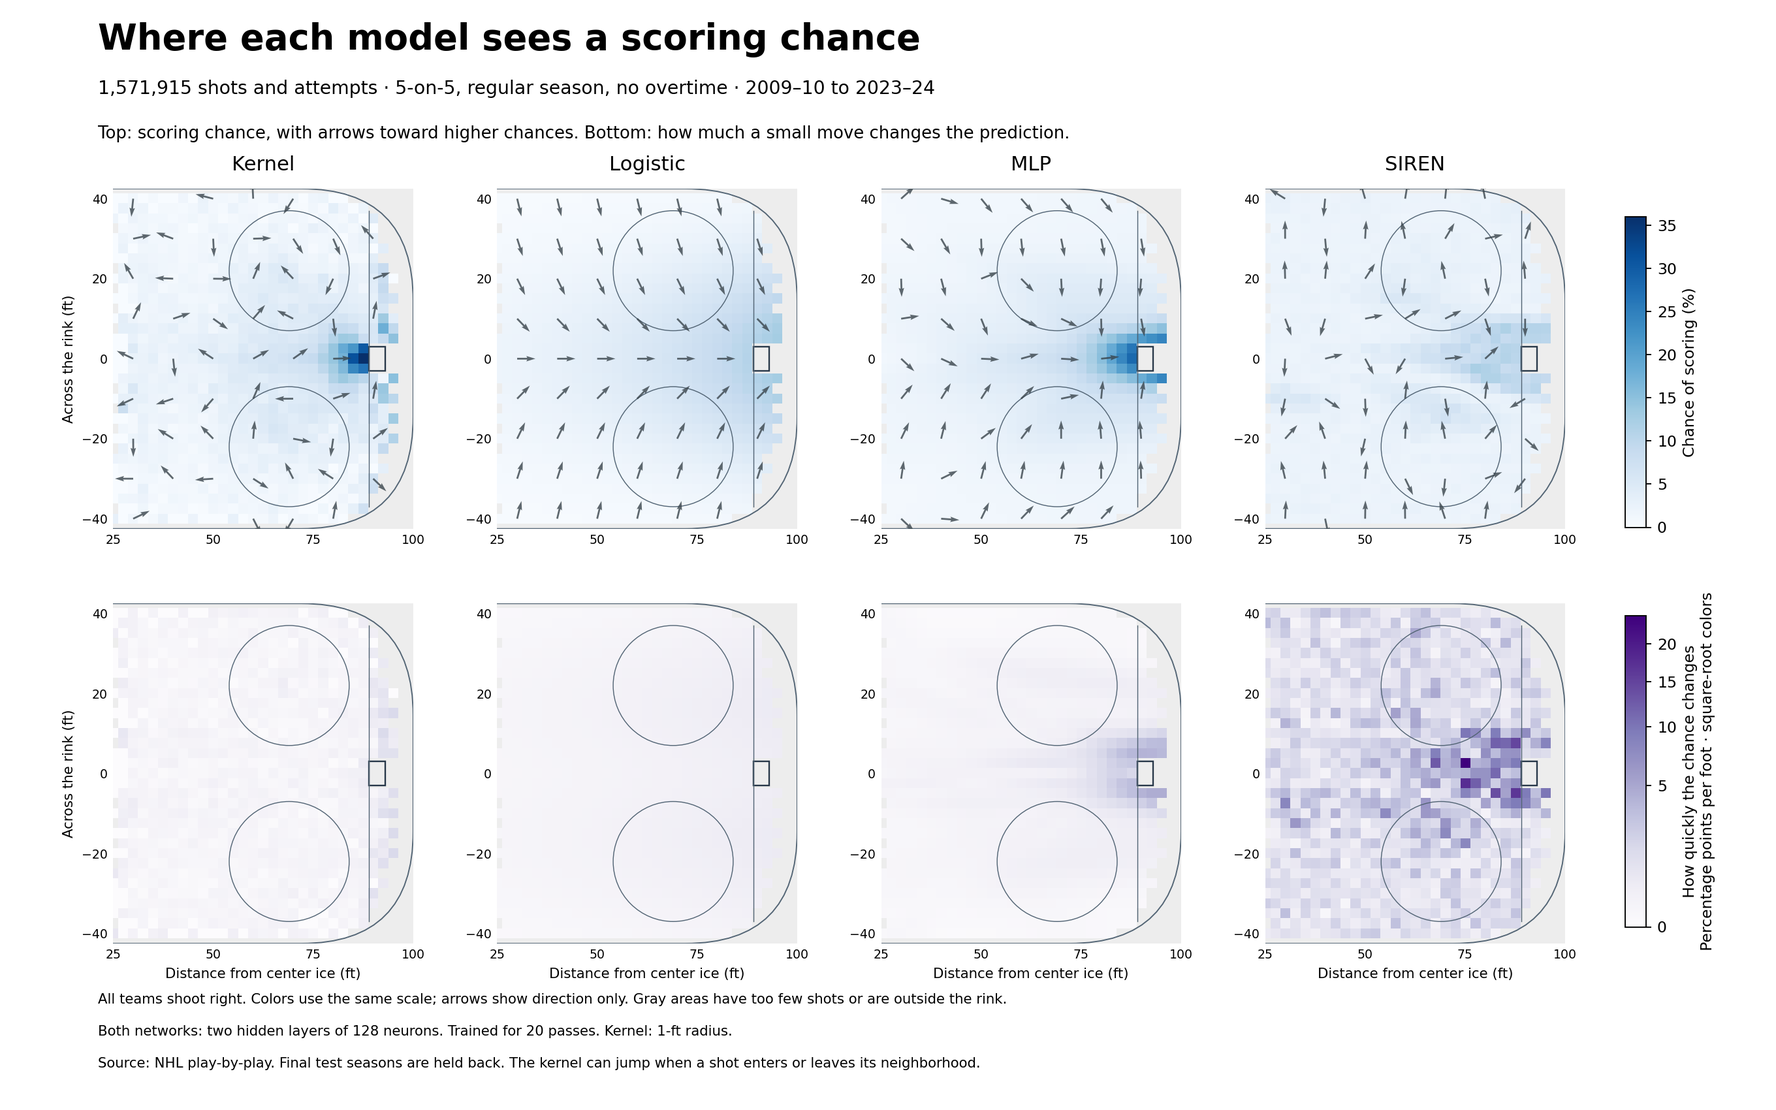
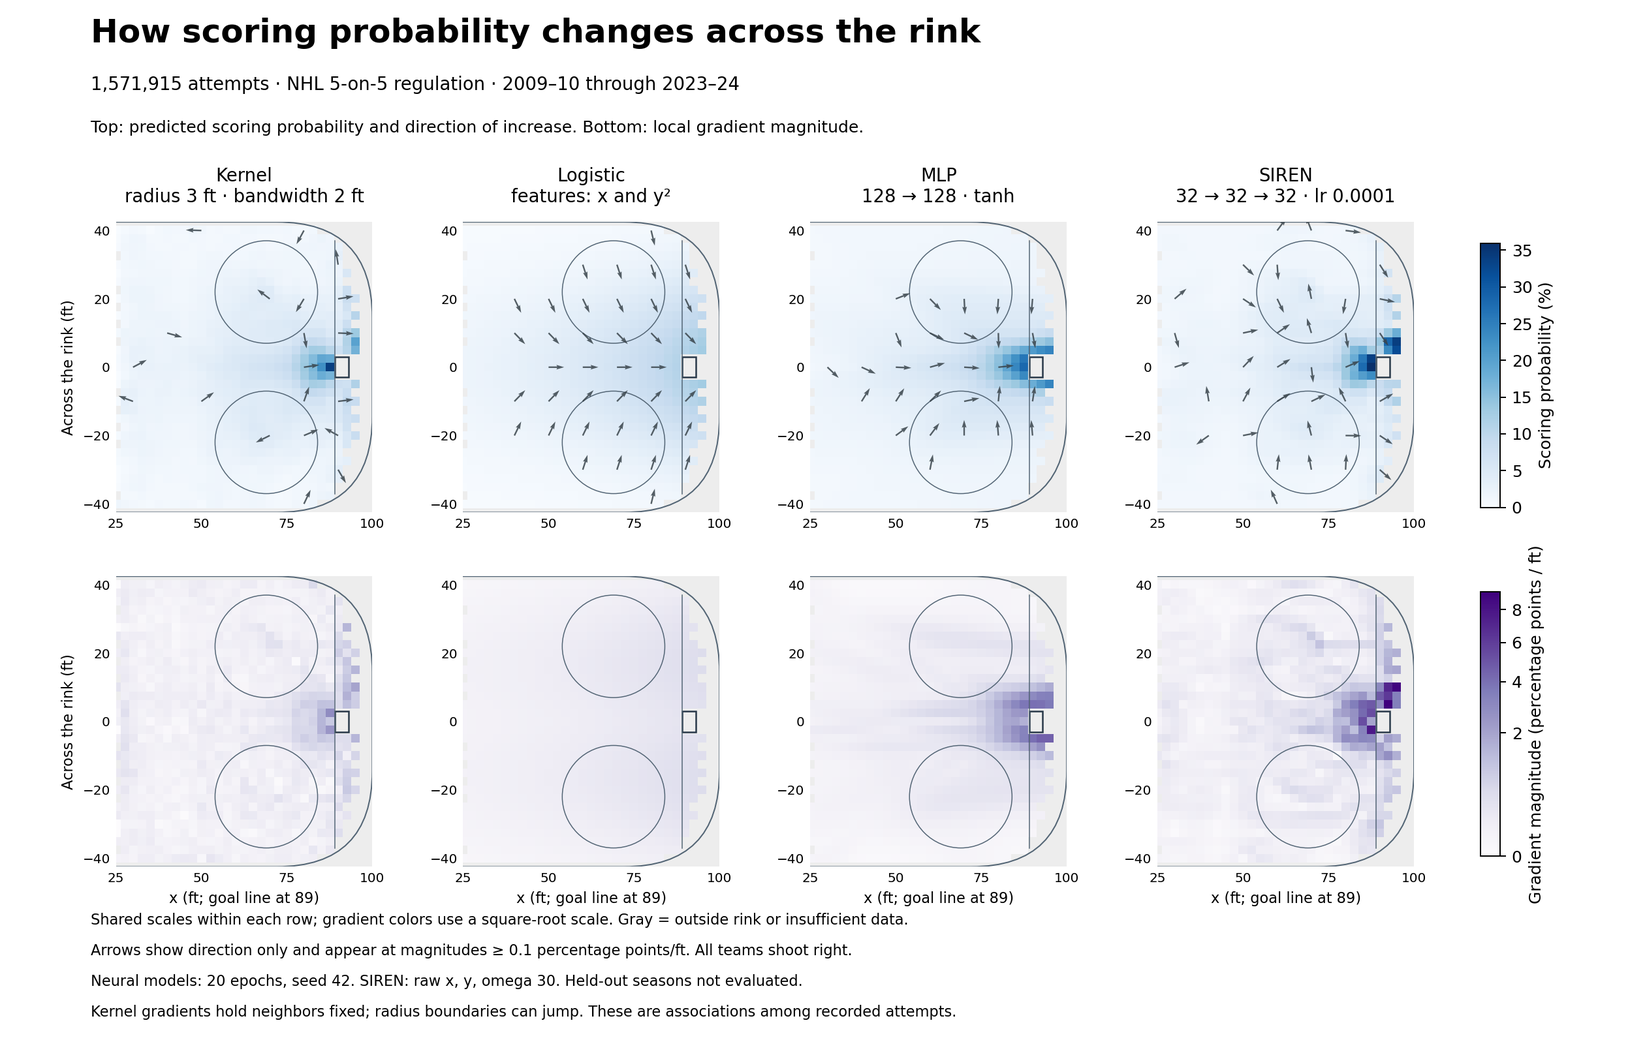
modification of Kernel radius and SIREN hyperparameters

diff --git a/xG/compare_geometry.py b/xG/compare_geometry.py
@@ -4,6 +4,7 @@ Run: python compare_geometry.py
 Uses seasons through 2023–24; final test seasons are not evaluated.
 """
 import argparse
+from copy import deepcopy
 import json
 from itertools import combinations
 from pathlib import Path
@@ -24,6 +25,29 @@ from mlp import MLP2D
 from siren import SIREN2D
 
 
+def gradient_check(model):
+    """Use double precision and a fine step to resolve rapid sine oscillations."""
+    q = np.array([71.3, 7.2])
+    eps = 1e-7 if isinstance(model, torch.nn.Module) else .001
+    if isinstance(model, torch.nn.Module):
+        checked = deepcopy(model).double().eval()
+        point = torch.tensor(q, dtype=torch.float64, requires_grad=True)
+        derivative, = torch.autograd.grad(torch.sigmoid(checked(point)), point)
+        analytic = derivative.detach().numpy()
+        def predict(coords):
+            with torch.no_grad():
+                return torch.sigmoid(checked(torch.tensor(coords, dtype=torch.float64))).numpy()
+    else:
+        analytic = model.gradient(q)
+        predict = model.predict_proba
+    numeric = np.array([(predict(np.array([q + eps*a]))[0]
+                         - predict(np.array([q - eps*a]))[0]) / (2*eps)
+                        for a in np.eye(2)])
+    return {"point": q.tolist(), "step_ft": eps,
+            "analytic": analytic.tolist(), "numeric": numeric.tolist(),
+            "max_absolute_error": float(np.abs(analytic - numeric).max())}
+
+
 def rink(ax):
     ax.add_patch(FancyBboxPatch(
         (-100, -42.5), 200, 85, boxstyle="round,pad=0,rounding_size=28",
@@ -39,12 +63,73 @@ def rink(ax):
     ax.set_facecolor("#ededed")
 
 
+def render(folder, destination=None):
+    folder = Path(folder)
+    destination = Path(destination) if destination else folder
+    destination.mkdir(parents=True, exist_ok=True)
+    report = json.loads((folder / 'comparison.json').read_text())
+    settings = report['settings']
+    names = ['Kernel','Logistic','MLP','SIREN']
+    with np.load(folder / 'surfaces.npz') as saved:
+        points = saved['locations'].copy()
+        probabilities = {n:saved[f'{n}_probability'].copy()*100 for n in names}
+        gradients = {n:saved[f'{n}_gradient'].copy()*100 for n in names}
+    pmax = max(p.max() for p in probabilities.values())
+    gmax = max(np.linalg.norm(g,axis=1).max() for g in gradients.values())
+    widths = settings.get('siren_hidden_sizes',[32,32,32])
+    subtitles = [f"radius {settings['radius']:g} ft · bandwidth {settings['bandwidth']:g} ft",
+                 'features: x and y²', '128 → 128 · tanh',
+                 ' → '.join(map(str,widths)) + f" · lr {settings.get('siren_lr',1e-4):g}"]
+    fig, axes = plt.subplots(2,4,figsize=(14,9))
+    fig.subplots_adjust(left=.055,right=.875,top=.79,bottom=.18,wspace=.13,hspace=.22)
+    for col,name in enumerate(names):
+        g = gradients[name]
+        magnitude = np.linalg.norm(g,axis=1)
+        for row,values in enumerate((probabilities[name],magnitude)):
+            raster=np.full((33,31),np.nan)
+            ix=np.rint((points[:,0]-25)/2.5).astype(int)
+            iy=np.rint((points[:,1]+40)/2.5).astype(int)
+            raster[iy,ix]=values
+            im=axes[row,col].imshow(raster,origin='lower',extent=(23.75,101.25,-41.25,41.25),
+                interpolation='nearest',cmap='Blues' if row==0 else 'Purples',
+                norm=plt.Normalize(0,pmax) if row==0 else PowerNorm(.5,vmin=0,vmax=gmax))
+            rink(axes[row,col])
+            if col==0:
+                axes[row,col].set_ylabel('Across the rink (ft)',fontsize=9)
+            if row==0:
+                axes[row,col].set_title(f'{name}\n{subtitles[col]}',fontsize=11,pad=12)
+                probability_image=im
+            else:
+                gradient_image=im
+                axes[row,col].set_xlabel('x (ft; goal line at 89)',fontsize=9)
+        # One physical threshold across all models; do not amplify almost-flat regions.
+        arrow=(np.isclose(points[:,0]%10,0)&np.isclose(points[:,1]%10,0)&(magnitude>=.1))
+        axes[0,col].quiver(points[arrow,0],points[arrow,1],g[arrow,0]/magnitude[arrow],g[arrow,1]/magnitude[arrow],
+            angles='xy',scale_units='xy',scale=.22,width=.006,color='#38434a',alpha=.85)
+    fig.colorbar(probability_image,cax=fig.add_axes([.90,.52,.012,.25]),label='Scoring probability (%)')
+    fig.colorbar(gradient_image,cax=fig.add_axes([.90,.19,.012,.25]),label='Gradient magnitude (percentage points / ft)')
+    fig.text(.055,.96,'How scoring probability changes across the rink',fontsize=20,weight='bold')
+    fig.text(.055,.915,f"{report['n_train']:,} attempts · NHL 5-on-5 regulation · 2009–10 through 2023–24",fontsize=11)
+    fig.text(.055,.875,'Top: predicted scoring probability and direction of increase. Bottom: local gradient magnitude.',fontsize=10)
+    fig.text(.055,.125,'Shared scales within each row; gradient colors use a square-root scale. Gray = outside rink or insufficient data.',fontsize=9)
+    fig.text(.055,.096,'Arrows show direction only and appear at magnitudes ≥ 0.1 percentage points/ft. All teams shoot right.',fontsize=9)
+    fig.text(.055,.067,f"Neural models: {settings['epochs']} epochs, seed {settings['seed']}. SIREN: raw x, y, omega {settings['omega']:g}. Held-out seasons not evaluated.",fontsize=9)
+    fig.text(.055,.038,'Kernel gradients hold neighbors fixed; radius boundaries can jump. These are associations among recorded attempts.',fontsize=9)
+    fig.savefig(destination/'scoring_geometry.png',dpi=180,facecolor='white')
+    fig.savefig(destination/'scoring_geometry.pdf',facecolor='white')
+    plt.close(fig)
+
+
 def main():
     parser = argparse.ArgumentParser(description=__doc__)
     parser.add_argument("--epochs", type=int, default=20)
-    parser.add_argument("--lr", type=float, default=.001)
+    parser.add_argument("--lr", type=float, default=.001, help="MLP learning rate")
+    parser.add_argument("--siren-lr", type=float, default=.0001)
+    parser.add_argument("--siren-hidden-sizes", type=int, nargs="+", default=[32, 32, 32])
     parser.add_argument("--bandwidth", type=float, default=2)
-    parser.add_argument("--radius", type=float, default=1.0)
+    parser.add_argument("--radius", type=float, default=3.0)
+    parser.add_argument("--support-radius", type=float, default=1.0,
+                        help="Fixed data-support radius for comparable plotted locations")
     parser.add_argument("--omega", type=float, default=30)
     parser.add_argument("--seed", type=int, default=42)
     selection = parser.add_mutually_exclusive_group()
@@ -52,12 +137,16 @@ def main():
                         help="Retrain SIREN and reuse the other saved model surfaces.")
     selection.add_argument("--mlp-only", action="store_true",
                            help="Retrain MLP and reuse the other saved model surfaces.")
+    parser.add_argument("--plot-only", action="store_true", help="Redraw saved results without fitting")
     args = parser.parse_args()
     only = "SIREN" if args.siren_only else "MLP" if args.mlp_only else None
     torch.set_num_threads(2)
     root = Path(__file__).resolve().parent
     output = root / "analysis" / "geometry"
     output.mkdir(parents=True, exist_ok=True)
+    if args.plot_only:
+        render(output)
+        return
 
     data = LoadHockeyShots().load_data()
     data = data.loc[data.game_id.astype("int64") // 1_000_000 <= 2023]
@@ -69,13 +158,13 @@ def main():
         "Logistic": LogisticRegression2D,
         "Kernel": lambda: KernelRegression2D(bandwidth=args.bandwidth, radius=args.radius),
         "MLP": MLP2D,
-        "SIREN": lambda: SIREN2D(omega=args.omega),
+        "SIREN": lambda: SIREN2D(omega=args.omega, hidden_sizes=args.siren_hidden_sizes),
     }
     xx, yy = np.meshgrid(np.arange(25, 100.1, 2.5), np.arange(-40, 40.1, 2.5))
     grid = np.column_stack([xx.ravel(), yy.ravel()])
     tree = cKDTree(X)
     support = tree.query_ball_point(grid, r=5, return_length=True)
-    local_support = tree.query_ball_point(grid, r=args.radius, return_length=True)
+    local_support = tree.query_ball_point(grid, r=args.support_radius, return_length=True)
     in_rink = ((grid[:, 0] <= 72) | (np.abs(grid[:, 1]) <= 14.5)
                | ((grid[:, 0] - 72)**2 + (np.abs(grid[:, 1]) - 14.5)**2 <= 28**2))
     keep = (support >= 100) & (local_support >= 20) & in_rink
@@ -83,8 +172,9 @@ def main():
     probabilities, gradients = {}, {}
     report = {"training_end_season": "2023–24", "n_train": len(X),
               "n_games": int(data.game_id.nunique()), "settings": vars(args),
-              "grid_step_ft": 2.5, "support": "At least 100 attempts within 5 ft and 20 within the kernel radius; inside rink",
-              "neural_hidden_layers": 2, "neural_width": {"MLP": 128, "SIREN": 128},
+              "grid_step_ft": 2.5, "support": f"At least 100 attempts within 5 ft and 20 within {args.support_radius:g} ft; inside rink",
+              "neural_hidden_layers": {"MLP": 2, "SIREN": len(args.siren_hidden_sizes)},
+              "neural_width": {"MLP": 128, "SIREN": args.siren_hidden_sizes},
               "supported_grid_points": len(points), "gradient_units": "probability per foot",
               "caveats": ["Single seed, fixed training schedule; no claim of tuned predictive superiority.",
                           "Kernel gradient holds its radius-based neighbor set fixed; cutoff boundaries can jump.",
@@ -92,7 +182,15 @@ def main():
               "models": {}, "pairwise": []}
     if only:
         previous = json.loads((output / "comparison.json").read_text())
+        for setting in ("radius", "bandwidth", "epochs", "lr", "seed", "omega"):
+            if previous["settings"][setting] != getattr(args, setting):
+                raise ValueError(f"Saved {setting} differs; rerun all models to keep the comparison consistent.")
+        if only == "MLP" and (previous["settings"].get("siren_hidden_sizes") != args.siren_hidden_sizes
+                               or previous["settings"].get("siren_lr") != args.siren_lr):
+            raise ValueError("Saved SIREN settings differ; rerun all models.")
         with np.load(output / "surfaces.npz") as saved:
+            if not np.array_equal(saved["locations"], points):
+                raise ValueError("Saved surfaces use a different grid; rerun all models.")
             for name in factories:
                 if name != only:
                     probabilities[name] = saved[f"{name}_probability"]
@@ -105,28 +203,20 @@ def main():
         torch.manual_seed(args.seed)
         model = factory()
         if isinstance(model, torch.nn.Module):
-            model.fit(X, goal, epochs=args.epochs, lr=args.lr)
+            model.fit(X, goal, epochs=args.epochs, lr=args.siren_lr if name == "SIREN" else args.lr)
             torch.save(model.state_dict(), output / f"{name.lower()}_weights.pt")
         else:
             model.fit(X, goal)
         probabilities[name] = model.predict_proba(points)
         gradients[name] = (model.gradient(points) if isinstance(model, torch.nn.Module)
                            else np.array([model.gradient(q) for q in points]))
-        # Finite-difference spot check away from exact recorded coordinates.
-        q = np.array([71.3, 7.2])
-        eps = .001 if name in ("Logistic", "Kernel") else .02
-        numeric = np.array([(model.predict_proba(np.array([q + eps*a]))[0]
-                             - model.predict_proba(np.array([q - eps*a]))[0]) / (2*eps)
-                            for a in np.eye(2)])
-        analytic = model.gradient(q)
+        check = gradient_check(model)
         magnitude = np.linalg.norm(gradients[name], axis=1)
         report["models"][name] = {
             "xg_min": float(probabilities[name].min()), "xg_max": float(probabilities[name].max()),
             "median_gradient": float(np.median(magnitude)), "p95_gradient": float(np.quantile(magnitude, .95)),
-            "finite_difference_check": {"point": q.tolist(), "step_ft": eps,
-                "analytic": analytic.tolist(), "numeric": numeric.tolist(),
-                "max_absolute_error": float(np.abs(analytic - numeric).max())}}
-        print(f"Finished {name}; gradient check error {np.abs(analytic-numeric).max():.2g}", flush=True)
+            "finite_difference_check": check}
+        print(f"Finished {name}; gradient check error {check['max_absolute_error']:.2g}", flush=True)
 
     for a, b in combinations(factories, 2):
         ga, gb = gradients[a], gradients[b]
@@ -143,43 +233,7 @@ def main():
                         **{f"{k}_gradient": v for k,v in gradients.items()})
     (output / "comparison.json").write_text(json.dumps(report, indent=2) + "\n")
 
-    fig, axes = plt.subplots(2, 4, figsize=(16, 10))
-    fig.subplots_adjust(left=.055, right=.89, top=.83, bottom=.15, wspace=.16, hspace=.22)
-    max_p = max(p.max() for p in probabilities.values()) * 100
-    max_g = max(np.linalg.norm(g,axis=1).max() for g in gradients.values()) * 100
-    labels = {"Kernel": "Kernel", "Logistic": "Logistic",
-              "MLP": "MLP", "SIREN": "SIREN"}
-    for column, name in enumerate(labels):
-        for row, values in enumerate([probabilities[name]*100, np.linalg.norm(gradients[name],axis=1)*100]):
-            surface = np.full(len(grid), np.nan)
-            surface[keep] = values
-            im = axes[row,column].imshow(surface.reshape(xx.shape), origin="lower",
-                extent=(23.75,101.25,-41.25,41.25), interpolation="nearest", cmap="Blues" if row==0 else "Purples",
-                norm=plt.Normalize(0,max_p) if row==0 else PowerNorm(.5,vmin=0,vmax=max_g))
-            rink(axes[row,column])
-            if row == 0:
-                axes[row,column].set_title(labels[name], fontsize=13, pad=12)
-                probability_image = im
-            else:
-                gradient_image = im
-                axes[row,column].set_xlabel("Distance from center ice (ft)", fontsize=9)
-            if column == 0:
-                axes[row,column].set_ylabel("Across the rink (ft)", fontsize=9)
-        # Unit-length arrows display direction only; bottom row supplies magnitudes.
-        arrow = (np.isclose(points[:,0] % 10,0) & np.isclose(points[:,1] % 10,0))
-        g = gradients[name];length=np.linalg.norm(g,axis=1);arrow &= length>1e-5
-        axes[0,column].quiver(points[arrow,0],points[arrow,1],g[arrow,0]/length[arrow],g[arrow,1]/length[arrow],
-            angles="xy",scale_units="xy",scale=.22,width=.006,color="#38434a",alpha=.8)
-    fig.colorbar(probability_image,cax=fig.add_axes([.915,.525,.012,.28]),label="Chance of scoring (%)")
-    fig.colorbar(gradient_image,cax=fig.add_axes([.915,.165,.012,.28]),label="How quickly the chance changes\nPercentage points per foot · square-root colors")
-    fig.text(.055,.955,"Where each model sees a scoring chance",fontsize=23,weight="bold")
-    fig.text(.055,.915,f"{len(X):,} shots and attempts · 5-on-5, regular season, no overtime · 2009–10 to 2023–24",fontsize=12)
-    fig.text(.055,.875,"Top: scoring chance, with arrows toward higher chances. Bottom: how much a small move changes the prediction.",fontsize=11)
-    fig.text(.055,.096,"All teams shoot right. Colors use the same scale; arrows show direction only. Gray areas have too few shots or are outside the rink.",fontsize=9)
-    fig.text(.055,.067,f"Both networks: two hidden layers of 128 neurons. Trained for {args.epochs} passes. Kernel: {args.radius:g}-ft radius.",fontsize=9)
-    fig.text(.055,.038,"Source: NHL play-by-play. Final test seasons are held back. The kernel can jump when a shot enters or leaves its neighborhood.",fontsize=9)
-    fig.savefig(output / "scoring_geometry.png", dpi=170, facecolor="white")
-    fig.savefig(output / "scoring_geometry.pdf", facecolor="white")
+    render(output)
     print(json.dumps(report, indent=2), flush=True)
 
 

diff --git a/xG/siren.py b/xG/siren.py
@@ -15,16 +15,21 @@ class Sine(nn.Module):
 
 
 class SIREN2D(nn.Module):
-    def __init__(self, omega=30.0):
+    def __init__(self, omega=30.0, hidden_sizes=(32, 32, 32), features="xy"):
         super().__init__()
-
-        self.layers = nn.Sequential(
-            nn.Linear(2, 128),
-            Sine(omega),
-            nn.Linear(128, 128),
-            Sine(omega),
-            nn.Linear(128, 1),
-        )
+        if features not in ("xy", "net", "xy_net", "radial", "xy_radial"):
+            raise ValueError("features must be xy, net, xy_net, radial, or xy_radial")
+        self.features = features
+        self.hidden_sizes = tuple(hidden_sizes)
+        if not self.hidden_sizes or any(not isinstance(n, int) or n <= 0 for n in self.hidden_sizes):
+            raise ValueError("hidden_sizes must contain positive integer widths")
+        layers = []
+        incoming = 4 if features in ("xy_net", "xy_radial") else 2
+        for width in self.hidden_sizes:
+            layers.extend([nn.Linear(incoming, width), Sine(omega)])
+            incoming = width
+        layers.append(nn.Linear(incoming, 1))
+        self.layers = nn.Sequential(*layers)
 
         # First-layer and hidden/output-layer SIREN weight initialization.
         with torch.no_grad():
@@ -34,11 +39,29 @@ class SIREN2D(nn.Module):
                              else np.sqrt(6 / layer.in_features) / omega)
                     layer.weight.uniform_(-bound, bound)
     
-    def forward(self, X):
+    def encode_features(self, X):
         scaled = X / X.new_tensor([100.0, 42.5])
-        return self.layers(scaled).squeeze(-1)
+        if self.features == "xy":
+            return scaled
+        distance = 89.0 - X[..., 0]
+        lateral = X[..., 1]
+        # Bearing from net center: 0 straight in front, +/-pi straight behind.
+        # Angle is undefined at net center; use 0 there for training values.
+        origin = (distance == 0) & (lateral == 0)
+        safe_distance = torch.where(origin, torch.ones_like(distance), distance)
+        angle = torch.atan2(lateral, safe_distance)
+        if self.features in ("radial", "xy_radial"):
+            # Signed radial distance: positive on the goal line and in front,
+            # negative behind it. Preserve legacy goal-line feature modes.
+            radius = torch.linalg.vector_norm(torch.stack((distance, lateral), dim=-1), dim=-1)
+            distance = torch.where(distance < 0, -radius, radius)
+        net = torch.stack((distance / 100.0, angle / torch.pi), dim=-1)
+        return torch.cat((scaled, net), dim=-1) if self.features in ("xy_net", "xy_radial") else net
+
+    def forward(self, X):
+        return self.layers(self.encode_features(X)).squeeze(-1)
     
-    def fit(self, X, y, epochs=20, batch_size=2048, lr=1e-3):
+    def fit(self, X, y, epochs=20, batch_size=2048, lr=1e-4):
         X = torch.tensor(X, dtype=torch.float32)
         y = torch.tensor(y, dtype=torch.float32)
 

diff --git a/xG/kernel_regression.py b/xG/kernel_regression.py
@@ -4,7 +4,7 @@ from normalize_data import LoadHockeyShots
 from season_cv import SeasonCV
 
 class KernelRegression2D:
-    def __init__(self, bandwidth=4, radius=1.0):
+    def __init__(self, bandwidth=2, radius=3.0):
         self.h = bandwidth
         self.radius = radius
     

diff --git a/README.md b/README.md
@@ -4,14 +4,49 @@ Neural representations research with hockey data.
 
 ## xG geometry
 
-Code: [xG/](xG/)
+How does the probability of scoring in the NHL vary with shot location?
+I compared kernel regression, logistic regression, an MLP, and a
+[SIREN](https://arxiv.org/abs/2006.09661) using 1.57 million recorded 5-on-5
+attempts from 2009–10 through 2023–24.
 
-![Comparison of scoring probabilities and gradients](xG/analysis/geometry/scoring_geometry.png)
+![Four location-based scoring models: probabilities and gradient directions above, gradient magnitudes below. Kernel radius is 3 ft; SIREN has three 32-neuron hidden layers and a learning rate of 0.0001.](xG/analysis/geometry/scoring_geometry.png)
 
-I was really curious about scoring "geometry": how does the probability of scoring in the NHL vary with shot location?
+The top row shows scoring probabilities, with arrows pointing toward higher
+predictions. The bottom row shows how quickly those predictions change with
+location. Each row uses a shared color scale. Arrows have equal length and are
+hidden below 0.1 percentage points per foot, so nearly flat regions do not look
+as directional as stronger gradients.
 
-I started with kernel regression and got a pretty uneven picture. At some points, the gradients point away from the net. I'd expected moving closer to help, at least in front of the goal line.
+Two settings made a substantial difference: expanding the kernel neighborhood
+from 1 ft to 3 ft, and reducing the SIREN learning rate from `1e-3` to `1e-4`.
+The figure uses a **3-ft kernel radius with 2-ft Gaussian bandwidth** and a
+**SIREN with three hidden layers of 32 neurons**, sine frequency 30, and raw
+`(x, y)` inputs. The MLP has two 128-neuron tanh layers. Both networks were
+trained for 20 epochs with seed 42 and binary cross-entropy.
 
-Other models had smoother gradients. Logistic regression a simpler picture where moving closer to the net improves the probability of scoring. The MLP (2 hidden layers, 128 neurons per layer) picks up more detail, but still smooths over a lot of the little changes you see with the kernel.
+For this SIREN, widening the kernel radius from 1 ft to 3 ft reduced median
+gradient-direction disagreement from **83.8° to 35.5°** on the same 819 nonflat
+locations. This is agreement between models, not evidence that either gradient
+is ground truth. Adding signed radial distance and angle did not materially
+improve agreement in these runs.
 
-The [SIREN paper](https://arxiv.org/abs/2006.09661) showed promising results on fine detail and derivatives, so I tried its sine activations and weight initialization. The picture shows that SIREN's gradients change much more than the MLP's. This makes SIREN and other existing neural representation work an interesting starting point as I build an expected goals model with more than just shot location.
+These surfaces describe recorded attempts, not the causal effect of moving a
+shot. Behind-net records include bank shots and wraparounds, and the kernel's
+hard neighborhood cutoff can introduce jumps. Final test seasons remain held
+back; these figures do not establish predictive superiority.
+
+### Reproduce
+
+From `xG/`, install `requirements.txt`, download the season data with
+`download_shots.py`, then run:
+
+```sh
+python compare_geometry.py --radius 3 --bandwidth 2 --siren-hidden-sizes 32 32 32 --siren-lr 1e-4
+```
+
+This fits all four models and regenerates the graphic. To redraw saved outputs
+without training, run `python compare_geometry.py --plot-only`.
+
+`SIREN2D` accepts custom hidden-layer widths and raw or engineered coordinate
+features for further experiments. Model checkpoints and downloaded data are
+kept locally.
